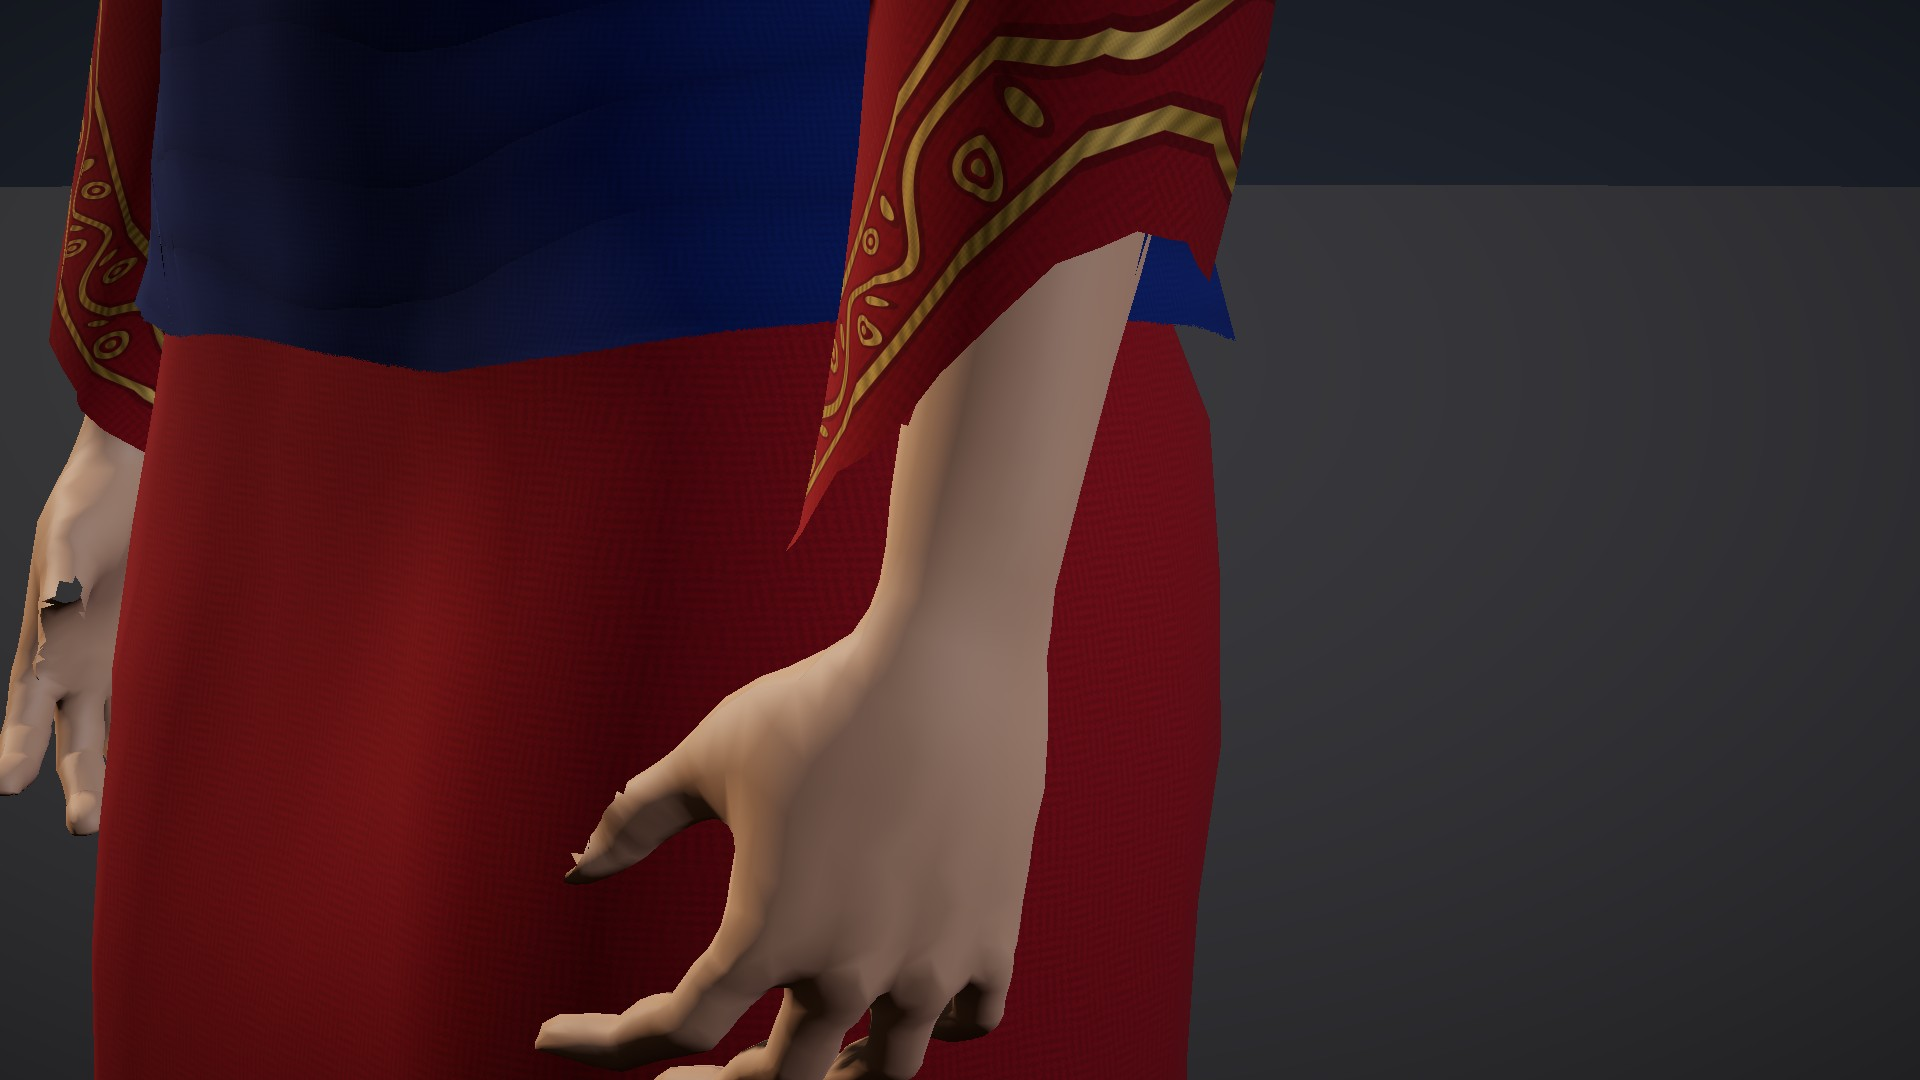
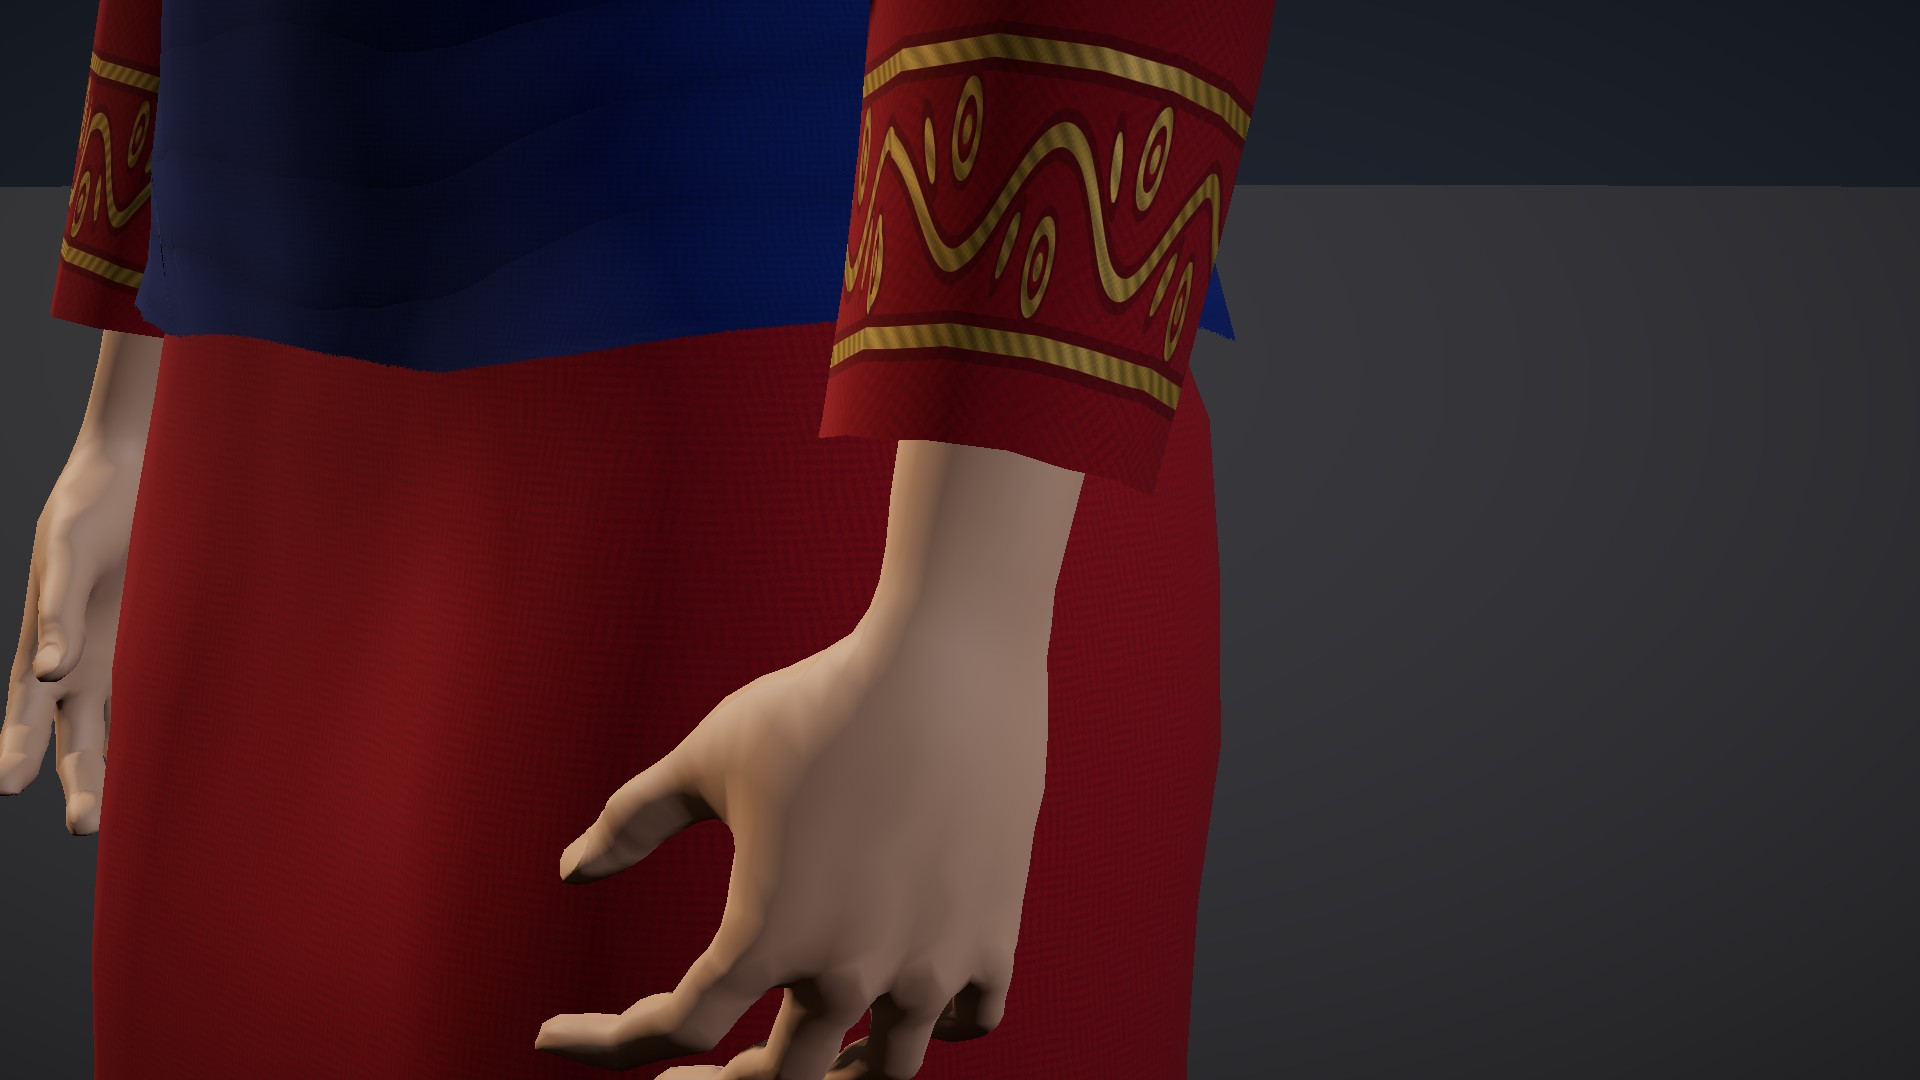
Bodies: Session 1228 — pictures and the check's result
Claude-Session: https://claude.ai/code/session_01DZDkSnF8fg5L54PfV31tjt

diff --git a/docs/devlog/1228.md b/docs/devlog/1228.md
@@ -40,11 +40,11 @@ triangles inside the cloth.
 freeze holds the game. The rebuild that F4 makes will carry this fix with the rest.
 
 ### Verified (headless Chromium)
-- **`node docs/prototypes/levelup/builder.check.mjs`:** RESULT, six of them new:
+- **`node docs/prototypes/levelup/builder.check.mjs`:** 551 of 551 pass (about 15 minutes), six of them new:
   - the woman's and the Markman's sleeves, each arm, square to the forearm. Take the tunic's points within ±.012 of the cut on the posed
     body, and take out a straight line in the cut's number. What is left of their place along the forearm bone (elbow to wrist) spreads
     0.50 cm on the woman and 0.61 cm on the man, where the old cut at a plain |x| spread 9.57 and 14.4 cm (12 and 18 points);
-  - no skin left off under the sleeve's end. 0 of 7,396 body triangles below the neck with a corner past rest slvX .39 are undrawn; the old
+  - no skin left off under the sleeve's end. 0 of 6,872 body triangles below the neck with a corner past rest slvX .39 are undrawn; the old
     region left 270 undrawn past rest |x| .39;
   - no page errors.
 - **Pictures** (`builder.check.mjs --shots=sleeve`, and `gown-sleeve` retaken):
